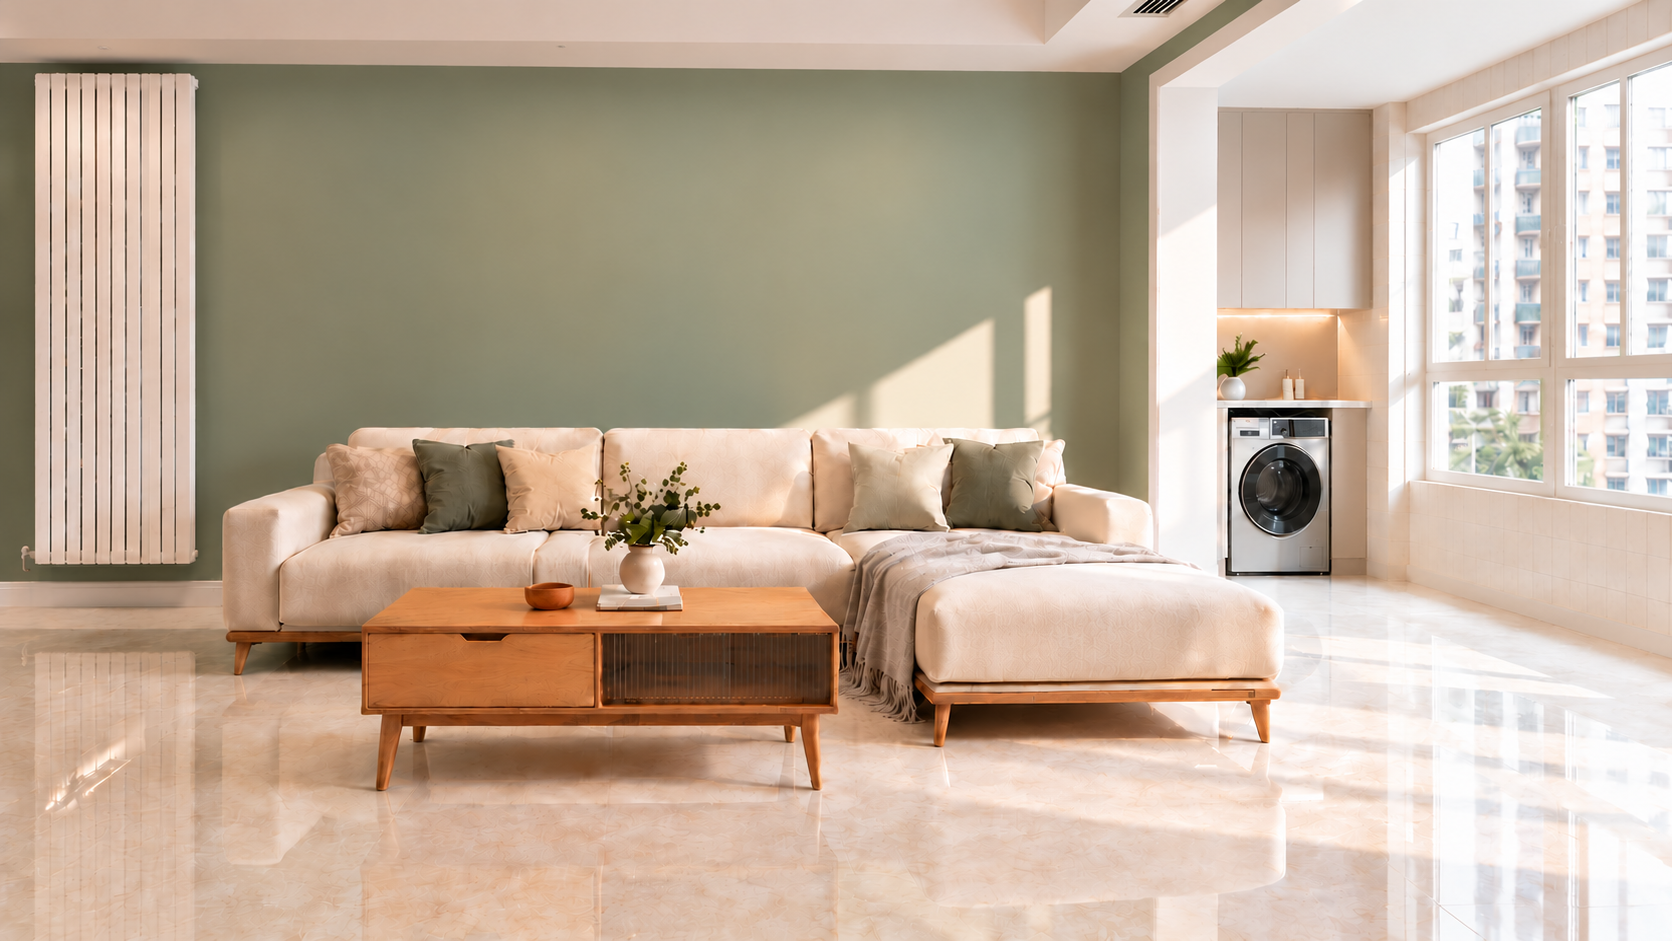
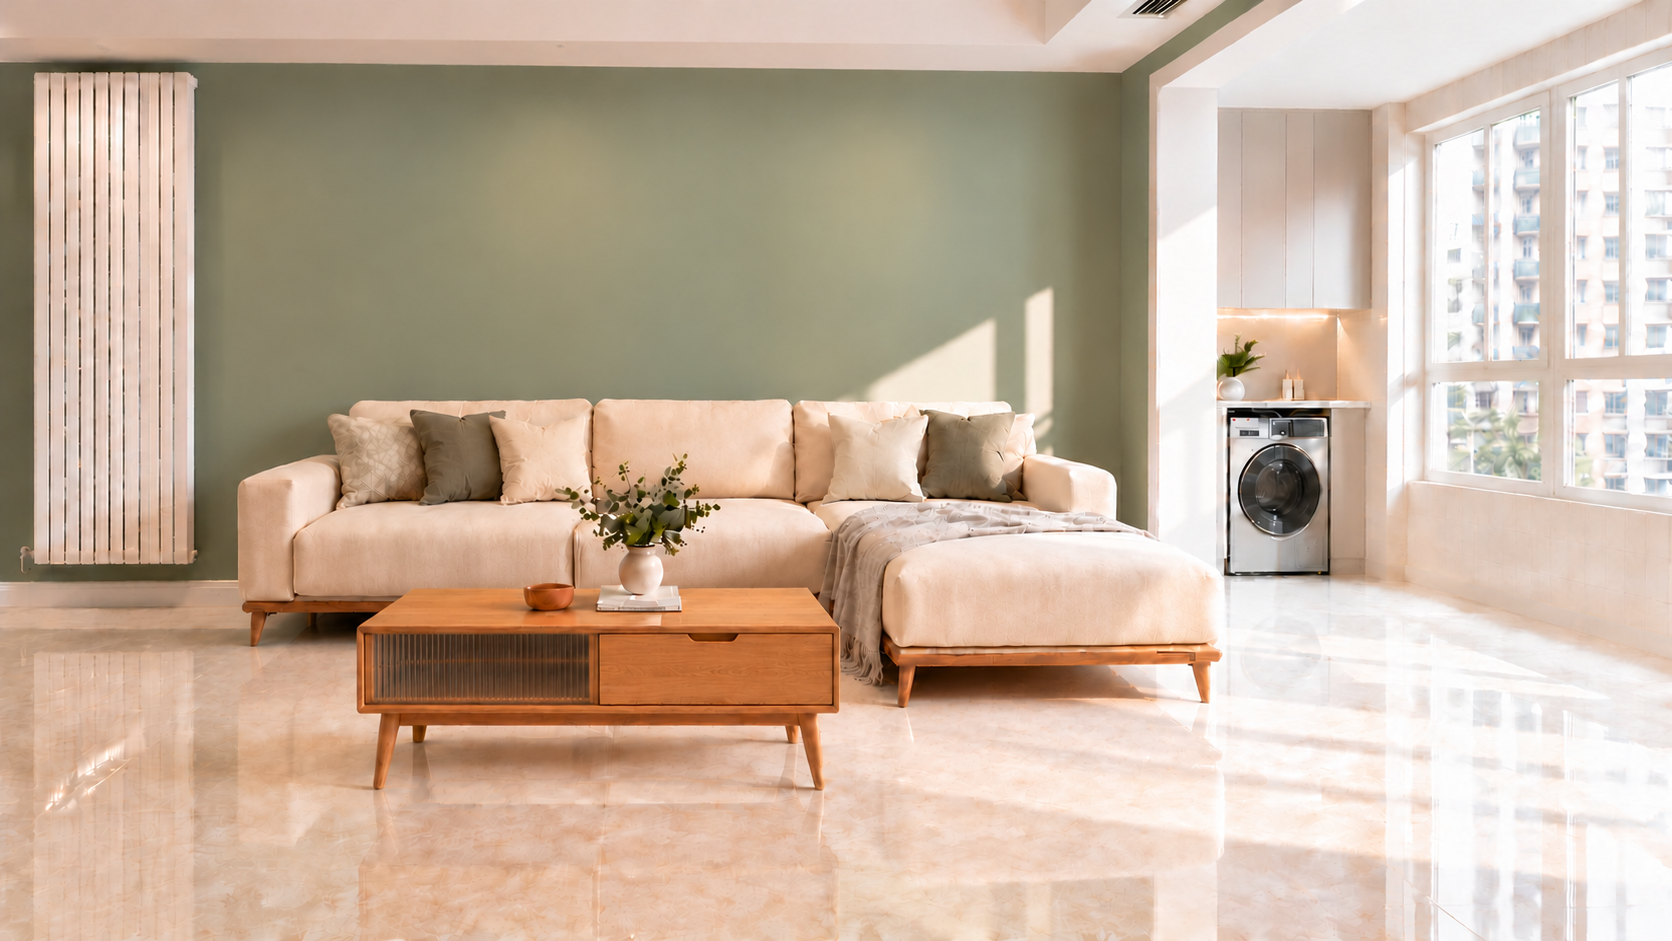
Replace Bubu VIEW-03 with user-specified v02 and retain original

diff --git a/projects/另一个家的布布/assets/README.md b/projects/另一个家的布布/assets/README.md
@@ -33,7 +33,7 @@
[8 lines of base64/hex data omitted]
@@ -67,3 +67,7 @@
 - [Windows素材包来源清单](sync-package-20261025/manifest.json)、README和脚本保留来源副本，其原文“待上传”仅表示打包时状态。
 - 包内剧本与正视核对表和正式文档有差异，来源版本保存在 `sync-package-20261025/docs/`，不替代正式剧本或核对表。空间关系说明与正式文本一致，不重复复制。
 - 仅上传及核验，不重新审核创作内容，不生成媒体。
+
+## H. VIEW-03 v02用户指定替换（2026-10-25）
+
+正式 `views/VIEW-03_朝沙发.png` 已更新为用户本轮附件；旧版保留 `views/history/VIEW-03_朝沙发_v01_20261025.png`。新图用于后续SC04—SC06空间检查，不自动批准机位。详见[版本记录](VIEW-03_revision_20261025.json)。原始Windows包与第一次8/8回执保持历史原文，不再代表当前VIEW-03像素版本。

diff --git a/projects/另一个家的布布/current-state.md b/projects/另一个家的布布/current-state.md
@@ -53,3 +53,7 @@
 ## 5. 2026-10-25｜第一批空间验证任务已拆解
 
 已实看PLAN-001/002并核对导演启动单，建立[第一批空间验证任务V1](director/第一批空间验证任务_V1_20261025.md)：SC04视线、SC06客观双妻子与B眼位主观空镜、E/X跨界及薄毯线索链。下一实际成果为机位与视线候选叠加图，尚未绘制或批准；角色/布布资产待查找绑定，不擅自重生。未生成媒体。
+
+## 6. VIEW-03新版（2026-10-25）
+
+用户指定新附件替换正式朝沙发图，旧版另存history。机位预演使用新VIEW-03；G/E/X及平面约束不变。版本证据见[VIEW-03记录](assets/VIEW-03_revision_20261025.json)。
